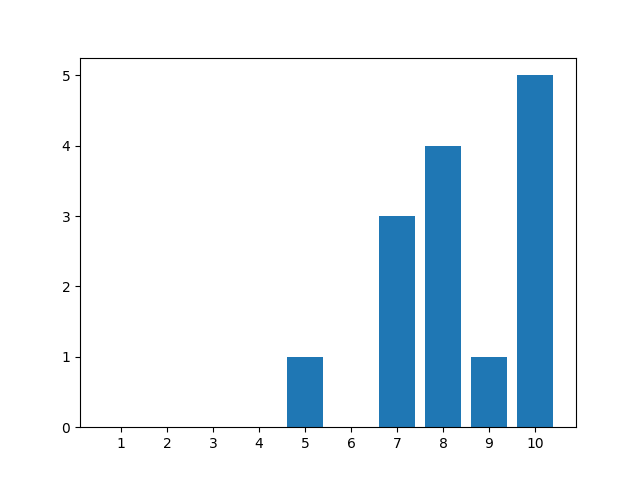
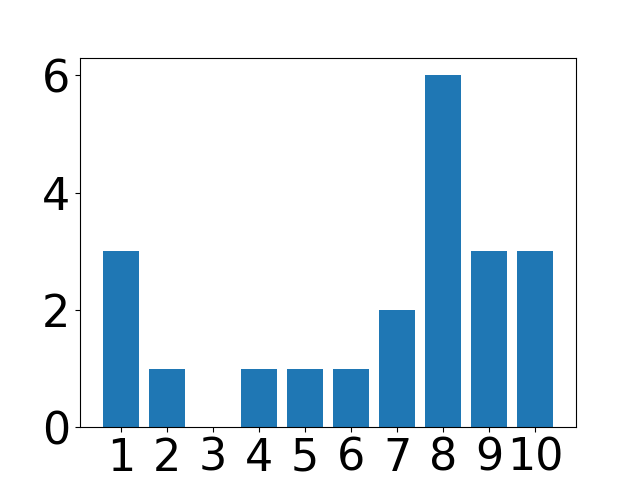
wordcloud works

diff --git a/python/movies/templates/movies/results.html b/python/movies/templates/movies/results.html
@@ -13,25 +13,38 @@
 
 <body>
     <div class="intro">
-        <h1>Results!</h1>
-        <p>You want to know what is the general feeling about a particular movie? <br> Enter the name, and discover what
-            imdb users feel about this film!
-        </p>
+        <h1>Results for {{ movie_name }}</h1>
     </div>
+
+<div class="results">
+    <div class="chart">
+        <p class="chartDescription Pos"> Positive rates: {{ positive_score_percentage }}%</p>
+        <p class="chartDescription Neu"> Neutral rates: {{ neutral_score_percentage }}%</p>
+        <p class="chartDescription Neg"> Negative rates: {{ negative_score_percentage }}%</p>
+
+        {% if chart_path %}
+        <img src="{{ chart_path }}" alt="Chart">
+        {% endif %}
+    </div>
+
+    <div class="wordcloud">
+        <p>Positive Reviews: {{ positive_text_percentage }}%</p>
+        <p>Neutral Reviews: {{ neutral_text_percentage }}%</p>
+        <p>Negative Reviews: {{ negative_text_percentage }}%</p>
+
+        {% if wordcloud_path %}
+        <img src="{{ wordcloud_path }}" alt="Wordcloud">
+        {% endif %}
+    </div>
+</div>
 
     <div class="form">
         <form method="POST" action="/movies/results/">
             {% csrf_token %}
-            <label for="movie-input">What movie would you like to know about?</label><br>
+            <label for="movie-input">What other movie would you like to know about?</label><br>
             <input type="text" id="movie-input" name="movie_name" placeholder="Enter movie name"><br>
             <button type="submit" id="submitMovie">Submit</button>
         </form>
-    </div>
-
-    <div class="chart">
-        {% if chart_path %}
-        <img src="{{ chart_path }}" alt="Chart">
-        {% endif %}
     </div>
 
 </body>

diff --git a/python/movies/static/css/main.css b/python/movies/static/css/main.css
@@ -68,6 +68,13 @@ button[type="submit"]:hover {
     background-color: #1e5be6;
 }
 
-.chart img {
+.results {
+    display: flex;
+    justify-content: space-between;
+    align-items: center;
+}
+
+.chart img,
+.wordcloud img {
     height: 200px;
 }

diff --git a/python/movies/views.py b/python/movies/views.py
@@ -5,6 +5,10 @@ from django.conf import settings
 from pymongo import MongoClient
 import os
 import matplotlib.pyplot as plt
+from wordcloud import WordCloud
+from .text_analysis import sentiment_analysis
+
+plt.rcParams.update({'font.family': 'Roboto', 'font.size': 32})
 
 class HomepageView(View):
     @csrf_exempt
@@ -13,50 +17,79 @@ class HomepageView(View):
 
     @csrf_exempt
     def post(self, request):
-        name = request.POST.get('movie_name')
-        if name:
-            print(name)
+        movie_name = request.POST.get('movie_name')
+        if movie_name:
+            request.session['movie_name'] = movie_name
             return redirect('results')
         return render(request, 'movies/homepage.html')
 
-
 class ResultsView(View):
+    @csrf_exempt
     def get(self, request):
-        # Connect to MongoDB Atlas
-        client = MongoClient(settings.DATABASES['default']['CLIENT']['host'])
-        db = client[settings.DATABASES['default']['NAME']]
-        collection = db.reviews
+        movie_name = request.session.get('movie_name')
+        if movie_name:
+            # Connect to MongoDB Atlas
+            client = MongoClient(settings.DATABASES['default']['CLIENT']['host'])
+            db = client[settings.DATABASES['default']['NAME']]
+            collection = db.reviews
 
-        # Retrieve the information from the database
-        review_scores = [doc['reviewScore'] for doc in collection.find()]
+            # Retrieve the information from the database
+            documents = collection.find()
+            # for document in documents:
+                # print("DOCUMENT ONE BY ONE")
+                # print(document)
 
-        # Generate the chart
-        chart_path = self.generate_chart(review_scores)
+            # SENTIMENT ANALYSIS
+            # Perform sentiment analysis
+            analysis_results = sentiment_analysis(documents)
 
-        return render(request, 'movies/results.html', {'chart_path': chart_path})
-    
-    def post(self, request):
+            # Get the sentiment analysis results
+            positive_count = analysis_results['positive_count']
+            negative_count = analysis_results['negative_count']
+            neutral_count = analysis_results['neutral_count']
 
-        # Connect to MongoDB Atlas
-        client = MongoClient(settings.DATABASES['default']['CLIENT']['host'])
-        db = client[settings.DATABASES['default']['NAME']]
-        collection = db.reviews
+            # Calculate the percentages
+            total_reviews = positive_count + negative_count + neutral_count
+            positive_text_percentage = round((positive_count / total_reviews) * 100)
+            neutral_text_percentage = round((neutral_count / total_reviews) * 100)
+            negative_text_percentage = round((negative_count / total_reviews) * 100)
 
-        # Clear any existing plots
-        plt.clf()
-        
-        # Retrieve the information from the database
-        review_scores = [doc['reviewScore'] for doc in collection.find()]
+            # Generate the wordcloud
+            wordcloud_path = analysis_results['wordcloud_path']
 
-        # Generate the chart
-        chart_path = self.generate_chart(review_scores)
+            # REVIEW SCORE
+            review_scores = [doc['reviewScore'] for doc in collection.find() if doc['reviewScore'] is not None]
+            # Count the number of review scores in each category
+            positive_count = len([score for score in review_scores if score >= 7])
+            neutral_count = len([score for score in review_scores if 4 <= score <= 6])
+            negative_count = len([score for score in review_scores if score <= 3])
 
-        return render(request, 'movies/results.html', {'chart_path': chart_path})
+            # Calculate the percentages based on review scores
+            total_reviews = len(review_scores)
+            positive_score_percentage = round((positive_count / total_reviews) * 100)
+            neutral_score_percentage = round((neutral_count / total_reviews) * 100)
+            negative_score_percentage = round((negative_count / total_reviews) * 100)
 
+            # Generate the chart
+            chart_path = self.generate_chart(review_scores)
+
+            return render(request, 'movies/results.html', {
+                'wordcloud_path': wordcloud_path,
+                'positive_score_percentage': positive_score_percentage,
+                'neutral_score_percentage': neutral_score_percentage,
+                'negative_score_percentage': negative_score_percentage,
+                'positive_text_percentage': positive_text_percentage,
+                'neutral_text_percentage': neutral_text_percentage,
+                'negative_text_percentage': negative_text_percentage,
+                'movie_name': movie_name,
+                'chart_path': chart_path
+            })
+        else:
+            return redirect('homepage')
 
     def generate_chart(self, review_scores):
 
-         # Clear any existing plots
+        # Clear any existing plots
         plt.clf()
 
         # Your data for the chart
@@ -67,13 +100,20 @@ class ResultsView(View):
         plt.bar(x, y)
         plt.xticks(range(1, 11))
 
+        # Get the current axis object
+        # ax = plt.gca()
+
+        # Set the font family for the tick labels
+        # ax.set_xticklabels(ax.get_xticks(), fontfamily='Helvetica')
+        # ax.set_yticklabels(ax.get_yticks(), fontfamily='Roboto')
+
         # Create the directory if it doesn't exist
         chart_directory = os.path.join(settings.MEDIA_ROOT, 'images')
         os.makedirs(chart_directory, exist_ok=True)
 
         # Save the chart as an image file
         chart_path = os.path.join(chart_directory, 'chart.png')
-        plt.savefig(chart_path)
+        plt.savefig(chart_path, transparent=True)
 
         # Get the relative path to the media directory
         relative_chart_path = os.path.join(settings.MEDIA_URL, 'images', 'chart.png')

diff --git a/python/movies/text_analysis.py b/python/movies/text_analysis.py
@@ -1,0 +1,112 @@
+import os
+from textblob import TextBlob
+from wordcloud import WordCloud
+from collections import Counter
+from django.conf import settings
+import nltk
+from nltk.corpus import stopwords
+from nltk.tokenize import word_tokenize, sent_tokenize
+
+
+
+
+
+def generate_wordcloud(review_texts):
+    # Generate word frequency dictionary
+    word_freq = Counter()
+    for text in review_texts:
+        # words = text.split()
+        word_freq += Counter(text)
+
+    # Create wordcloud object
+    wordcloud = WordCloud(width=800, height=400, background_color='white').generate_from_frequencies(word_freq)
+
+    return wordcloud
+
+def sentiment_analysis(documents):
+    # Initialize counters
+    positive_count = 0
+    negative_count = 0
+    neutral_count = 0
+
+    # Initialize a list to store all the review texts
+    all_reviews = []
+
+    for document in documents:
+        # Perform sentiment analysis on review_text field
+        review_text = document['reviewText']
+
+        review_text_tokens = word_tokenize(review_text.lower())
+        print("REVIEW TEXT")
+        print(review_text)
+        print(review_text_tokens)
+
+        english_stopwords = stopwords.words('english')
+        newStopWords = ['movie','film',"'", "'s", '(', ')', '.', "n't", ',', 'would']
+        english_stopwords.extend(newStopWords)
+
+
+        review_text_clean = [t for t in review_text_tokens if t not in english_stopwords]
+        print("CLEAN TEXT")
+        print(review_text_clean)
+        # for sent in review_text_sentences:
+
+        #     review_text_tokens = [word_tokenize(sent)]
+        #     removing_custom_words = [words for words in review_text_tokens if not words in stpwrd]
+        #     print("COMPARISON")
+        #     print(review_text)
+        #     print(removing_custom_words)
+
+        def getSubjectivity(text):
+            return TextBlob(text).sentiment.subjectivity
+
+        def getPolarity(text):
+            return TextBlob(text).sentiment.polarity
+
+        subjectivity = getSubjectivity(review_text)
+        polarity = getPolarity(review_text)
+
+        # Perform analysis
+        if polarity < -0.63:
+            analysis = 'Negative'
+            negative_count += 1
+        elif polarity > 0.36:
+            analysis = 'Positive'
+            positive_count += 1
+        else:
+            analysis = 'Neutral'
+            neutral_count += 1
+
+        # Add review text to the list
+        all_reviews.append(review_text_clean)
+
+        # Print the results in the console
+        # print("Subjectivity:", subjectivity)
+        # print("Polarity:", polarity)
+        # print("Analysis:", analysis)
+        # print("--------------------")
+    # print('ALL REVIEWS')
+    # print(all_reviews)
+    # Generate the word cloud
+
+
+    wordcloud = generate_wordcloud(all_reviews)
+
+    # Create the directory if it doesn't exist
+    wordcloud_directory = os.path.join(settings.MEDIA_ROOT, 'images')
+    os.makedirs(wordcloud_directory, exist_ok=True)
+
+    # Save the word cloud as an image file
+    wordcloud_path = os.path.join(wordcloud_directory, 'wordcloud.png')
+    wordcloud.to_file(wordcloud_path)
+
+    # Get the relative path to the media directory
+    relative_wordcloud_path = os.path.join(settings.MEDIA_URL, 'images', 'wordcloud.png')
+
+    # Return the sentiment analysis results and the path to the word cloud image
+    return {
+        'positive_count': positive_count,
+        'negative_count': negative_count,
+        'neutral_count': neutral_count,
+        'wordcloud_path': relative_wordcloud_path
+    }
